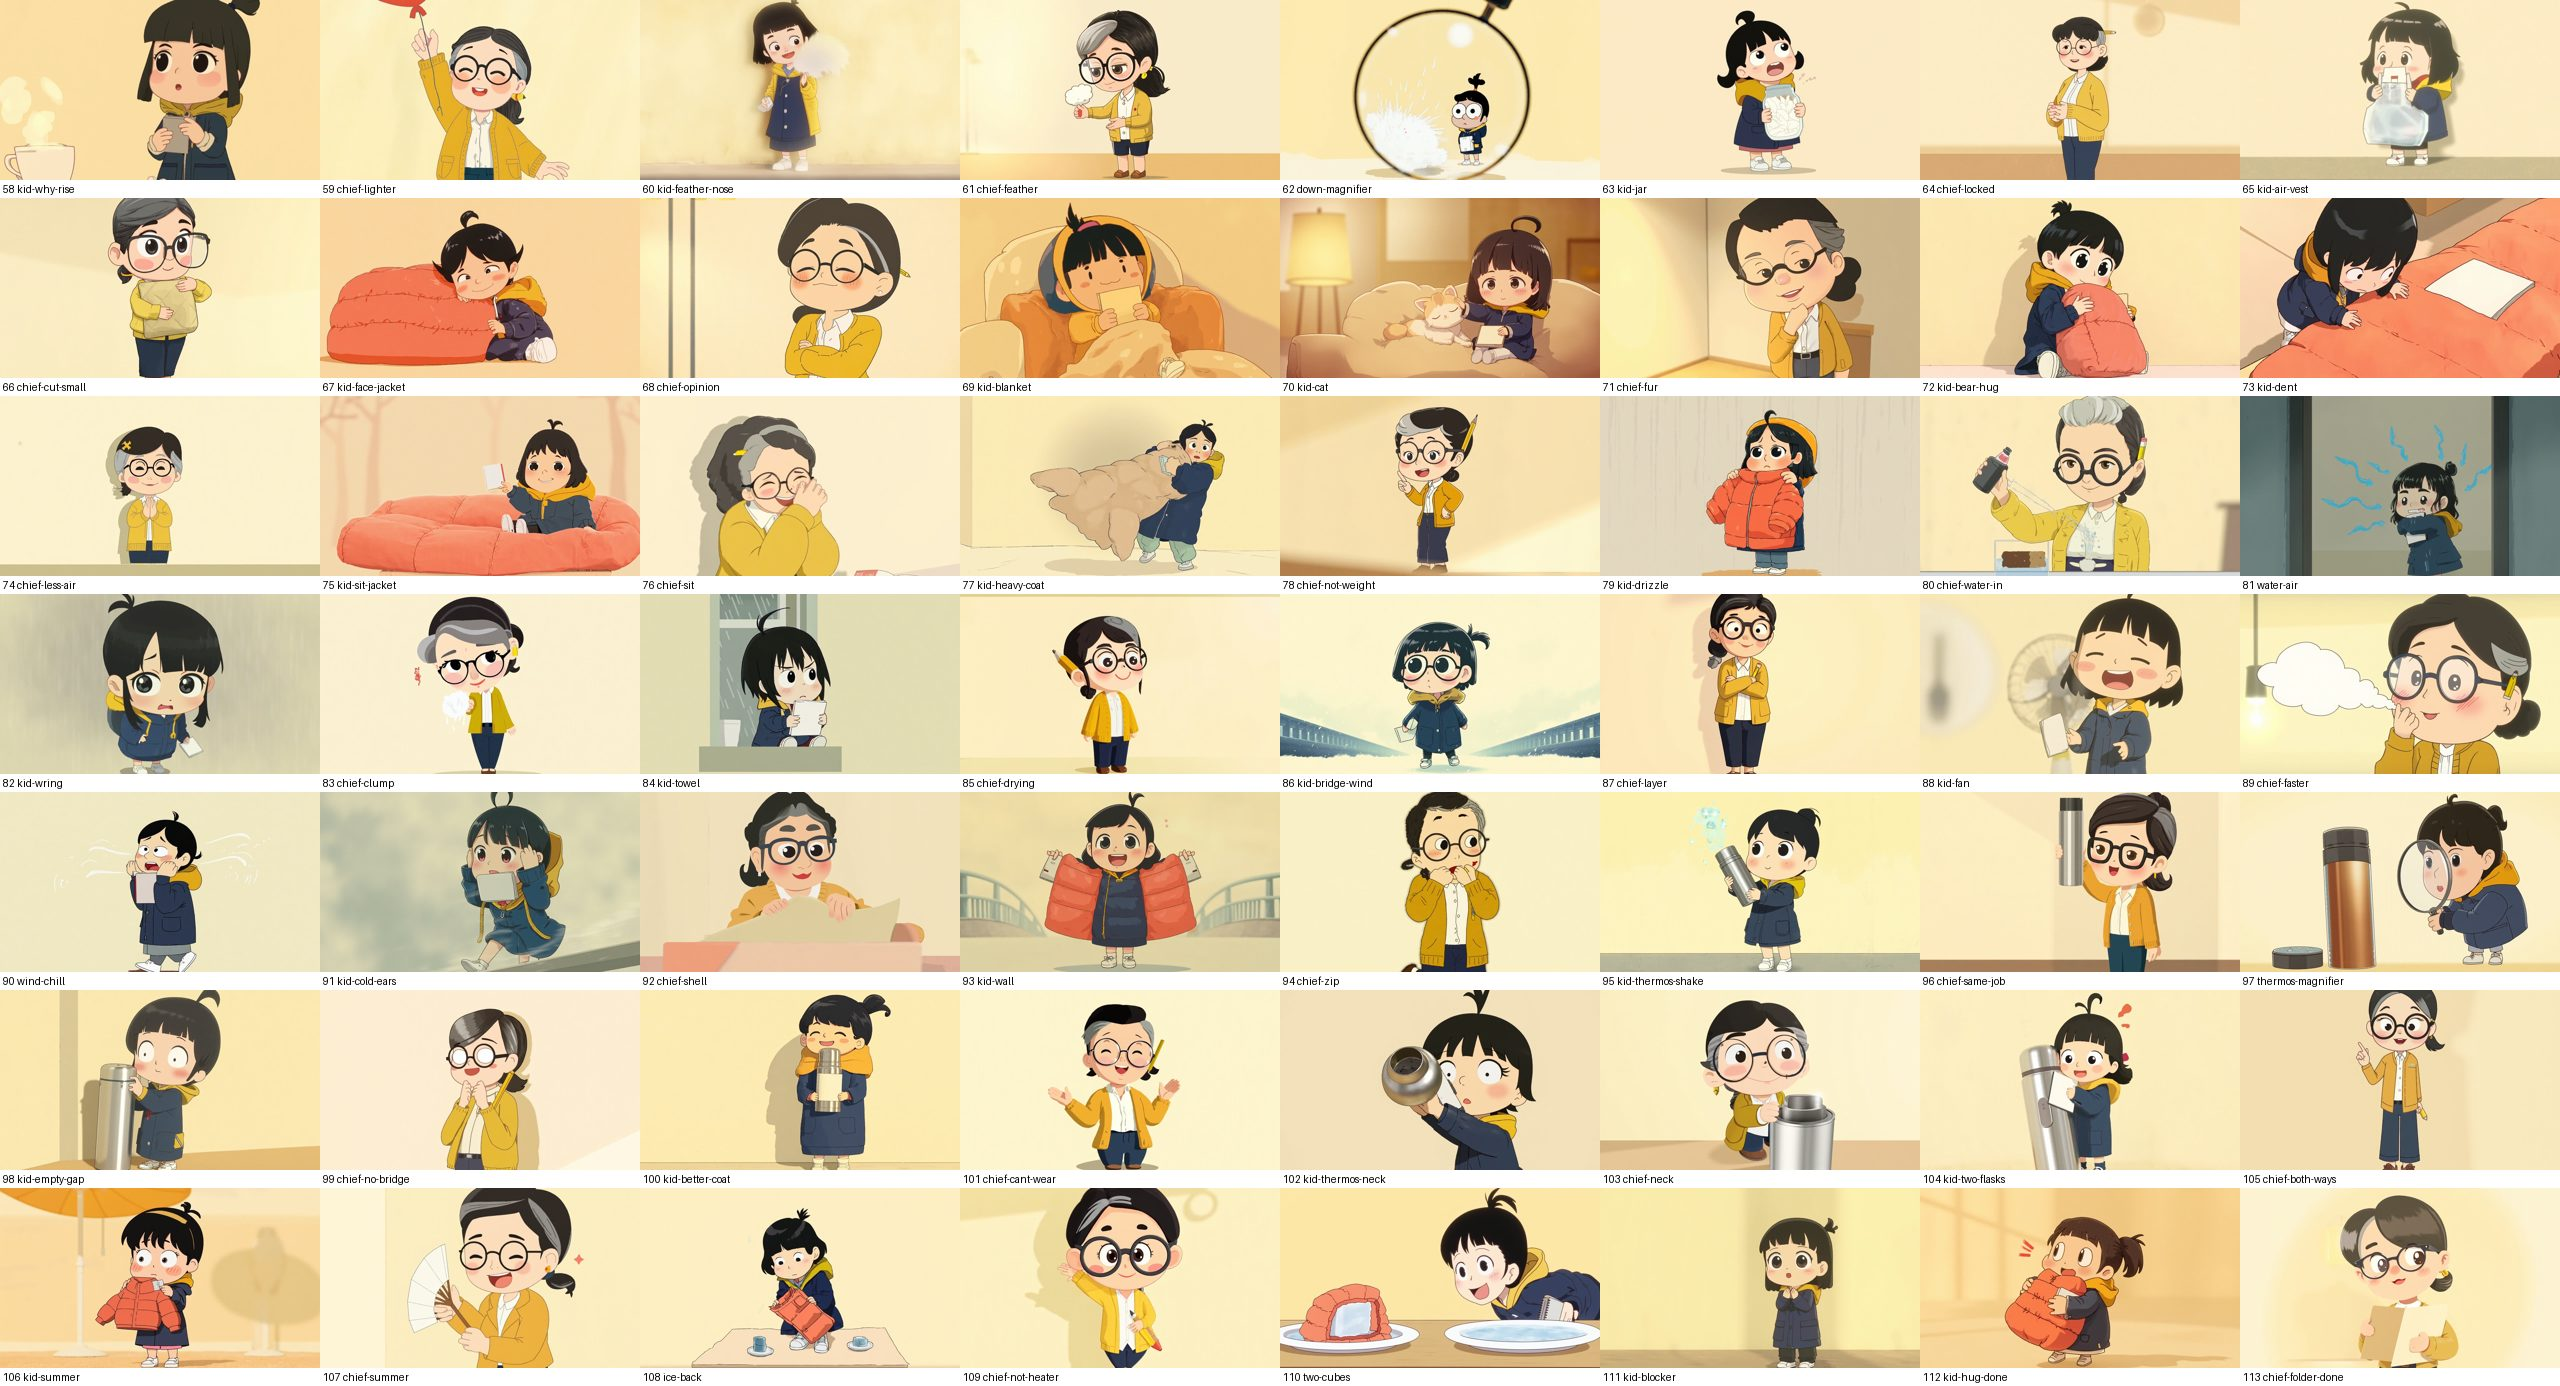
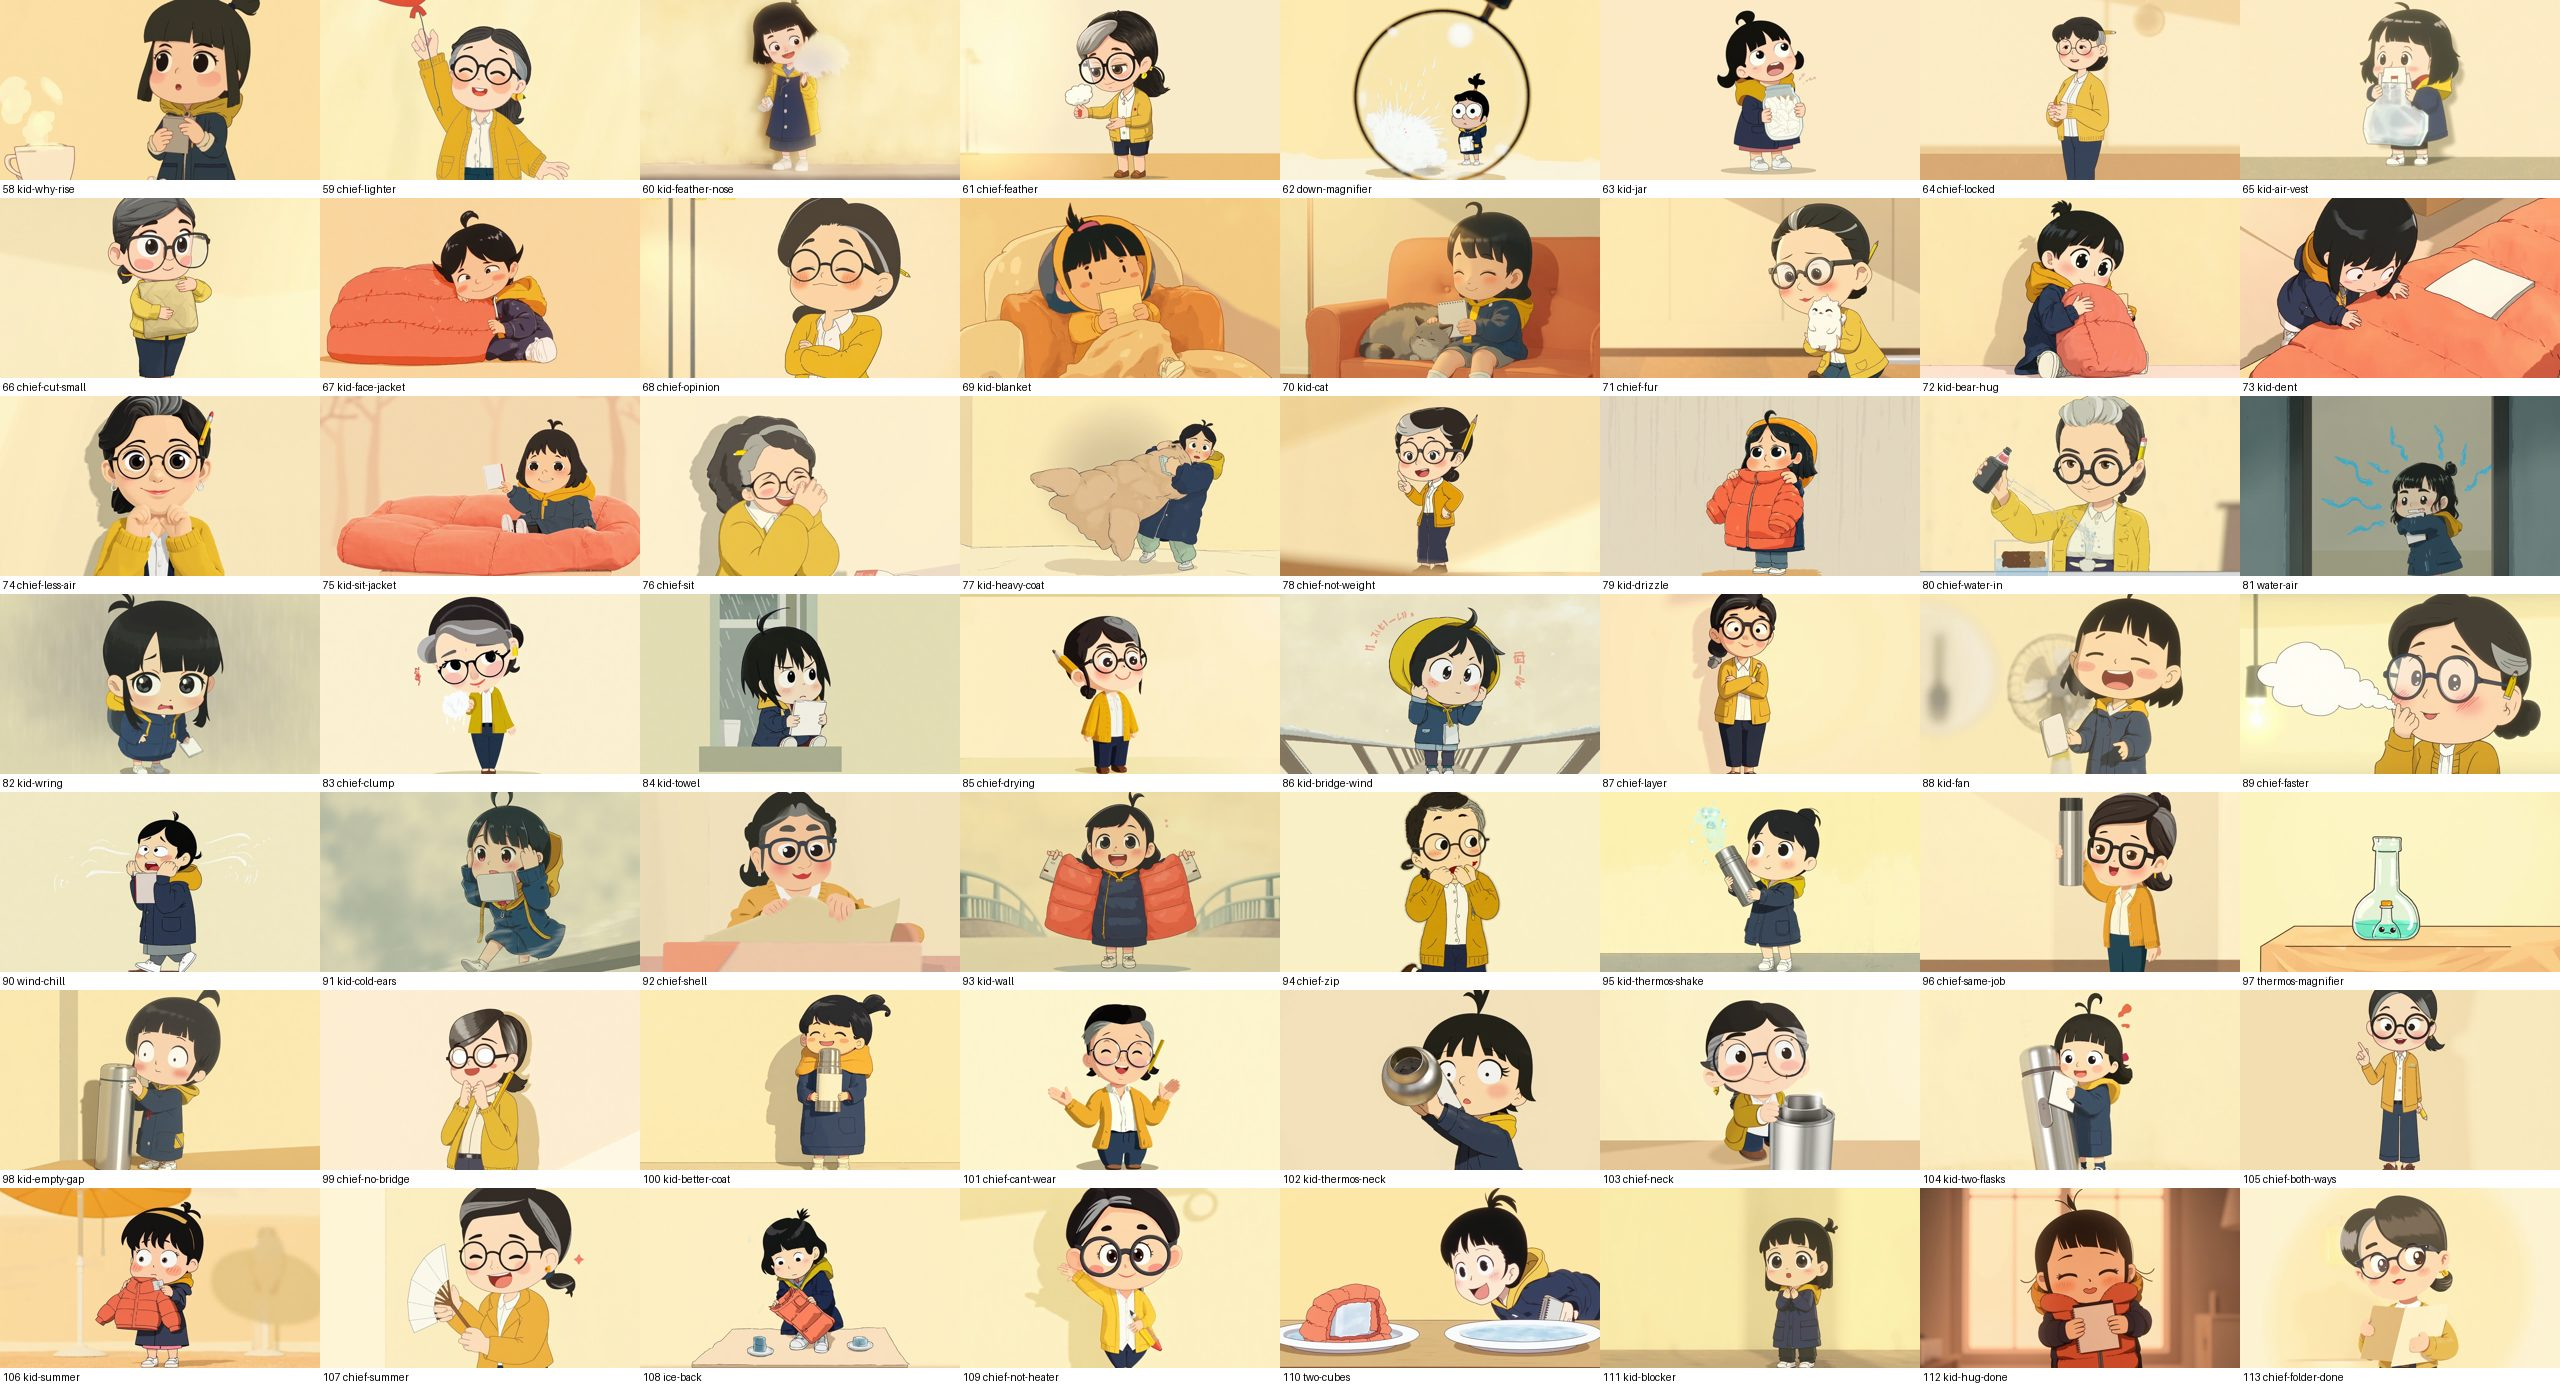
P05: thermos cutaway as a see-through flask; refreshed storyboard sheets
Claude-Session: https://claude.ai/code/session_019ZmEpYzTwJafrPaLRYukag

diff --git a/docs/videos/sothatswhy-p05-down-jacket/build_scenes.py b/docs/videos/sothatswhy-p05-down-jacket/build_scenes.py
@@ -257,7 +257,7 @@ kid("kid-thermos-shake", "Medium shot of the girl holding up a shiny steel therm
 # ---------- 第五章（保溫瓶：每一步都接回羽絨衣）----------
 chief("chief-same-job", "Waist-up medium shot of the chief holding up a shiny steel thermos beside her face with a knowing smile, " + WALL + ", soft lamp light",
       c("因為保溫瓶跟羽絨衣，做的是同一件事。"), c("它不加熱，也不製冷，只是讓熱很難進出。"), chapter="保溫瓶把空氣幾乎抽光了")
-scene("thermos-magnifier", "Close-up of a shiny steel thermos cut in half lengthwise on a table, showing a thin inner bottle inside a thin outer bottle with an empty gap between the two walls, the walls joined only at the rim, flat 2D cartoon with clean dark outlines, soft daylight",
+scene("thermos-magnifier", "Close-up of a see-through glass flask on a table, a smaller clear glass bottle standing inside a bigger clear glass bottle with an empty gap between the two walls, the two bottles joined only at the neck, flat 2D cartoon with clean dark outlines, soft daylight",
     c("保溫瓶是兩層瓶子，中間的空氣幾乎都抽掉了。"))
 kid("kid-empty-gap", "Close-up of the girl tapping the side of a shiny steel thermos with one fingertip and listening closely, a curious face, a plain wall, soft daylight",
     k("羽絨衣是把空氣關起來，", "比較"), k("它是連空氣都不要？"))
